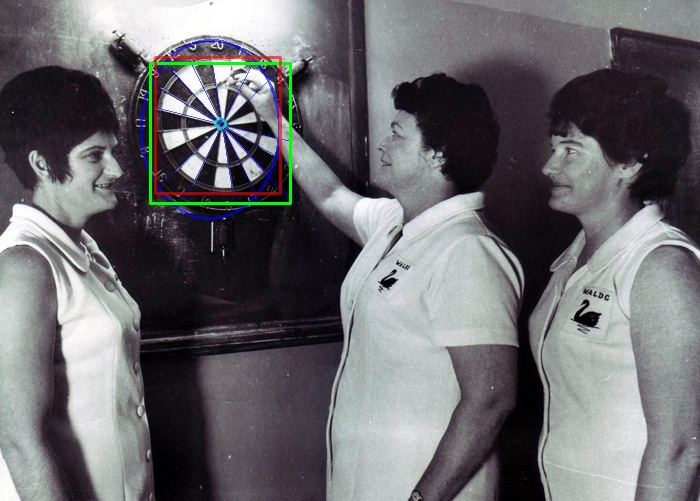
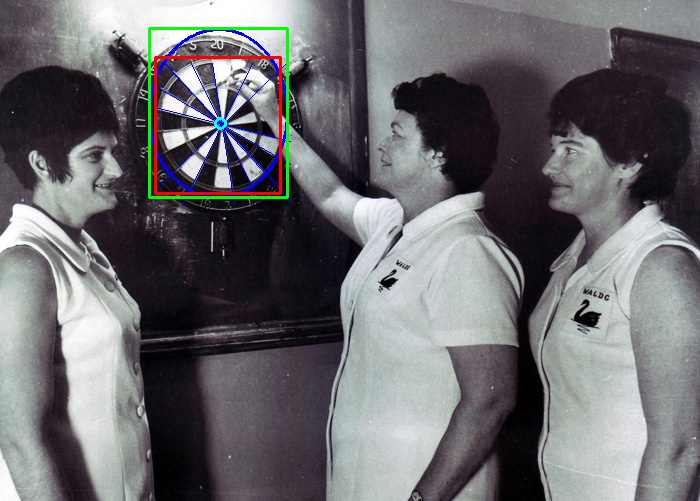
adaptive thresholding

Changed region(s): [[0.18, 0.0299, 0.42, 0.4491]]

diff --git a/framework.py b/framework.py
@@ -71,7 +71,6 @@ def detect(image, scaleFactor=1.2, minNeighbors=1.7):
         minNeighbors = 1
     img = cv.imread('images/positives/'+image)
     output = img.copy()
-    overlay = img.copy()
 
     gray = cv.cvtColor(img, cv.COLOR_BGR2GRAY)
     gray = cv.equalizeHist(gray)
@@ -82,10 +81,24 @@ def detect(image, scaleFactor=1.2, minNeighbors=1.7):
     ROIs = []
     tmp_faces = []
     final_faces = []
+    dropped = []
+    for i, f1 in enumerate(faces):
+        if  i not in dropped:
+            for j, f2 in enumerate(faces):
+                if i != j and j not in dropped:
+                    z = iou(f1, f2)
+                    z = iouThreshold(z, 0.1)
+                    if z == 1:
+                        _, _, w1, h1 = f1
+                        _, _, w2, h2 = f2
+                        if (w1*h1) <= (w2*h2):
+                            dropped.append(j)
+                        else:
+                            dropped.append(i)
 
+    tmp_faces = [face for i, face in enumerate(faces) if i not in dropped]
 
-    for (x,y,w,h) in faces:
-        overlay = cv.rectangle(overlay,(x,y),(x+w,y+h),(0,255,0),2)
+    for (x,y,w,h) in tmp_faces:
 
         roi = img[y:y+h, x:x+w]
         edges = cv.Canny(image=roi, threshold1 = 100, threshold2 = 200 )
@@ -127,11 +140,11 @@ def detect(image, scaleFactor=1.2, minNeighbors=1.7):
             x0,  y0,  a, b,  alpha = ellipses[0]
             x0 += x
             y0 += y
-            if 4*a*b < 0.4 * w * h:
-                x = int(x0-a)
-                y=int(y0-b)
-                w=int(2*a)
-                h=int(2*b) 
+            # if 4*a*b < 0.* w * h:
+            x = int(x0-a)
+            y=int(y0-b)
+            w=int(2*a)
+            h=int(2*b) 
 
             output = cv.rectangle(output,(x,y),(x+w,y+h),(0,255,0),2)
             final_faces.append((x,y,w,h))
@@ -142,7 +155,6 @@ def detect(image, scaleFactor=1.2, minNeighbors=1.7):
 
 
 #displays the image with roi
-    output = cv.addWeighted(overlay, 0.4, output, 1 - 0.4, 0)
     cv.imwrite('images/detected/'+image,output)
     return eval(groundTruths[image], final_faces)
 

diff --git a/hough.py b/hough.py
@@ -10,6 +10,10 @@ def hough_lines(image, threshold=70):
     # preprocess trig values
     cos_theta = np.cos(thetas)
     sin_theta = np.sin(thetas)
+    _, nz = np.nonzero(image)
+    if(len(nz)<3500):
+        threshold = 50
+        
 
     # Hough accumulator array of theta vs rho
     votes = np.zeros((len(rhos), len(thetas)), dtype=np.uint8)
@@ -77,6 +81,12 @@ def hough_ellipse(edges, leastVotes = 50, leastDistance = 20, min_b = 40, min_a 
     # 1 store all edge pixels in 1d array
     ys, xs = np.nonzero(edges)
     nonzeros = np.array(list(zip(ys, xs)))
+    # print(len(nonzeros))
+    if(len(nonzeros)<1500):
+        if centre != None:
+            leastVotes=20
+        else:
+            leastVotes=50
     # accumulator size of maximum minor axis length which is half of the width or height of the image
     # 2 clear accumulator
     accumulator = np.zeros(int(np.minimum(height , width)/2))
@@ -139,8 +149,8 @@ def hough_ellipse(edges, leastVotes = 50, leastDistance = 20, min_b = 40, min_a 
                                 y, x = pixel
                                 X = x - x0
                                 Y = y - y0
-                                # if np.round((((X*np.cos(alpha) + Y*np.sin(alpha))**2)/a**2) + (((X*np.sin(alpha) + Y*np.cos(alpha))**2)/b**2)) == 1:
-                                #     edges[y, x] = 0
+                                if np.round((((X*np.cos(alpha) + Y*np.sin(alpha))**2)/a**2) + (((X*np.sin(alpha) + Y*np.cos(alpha))**2)/b**2)) == 1:
+                                    edges[y, x] = 0
                             ys, xs = np.nonzero(edges)
                             nonzeros = np.array(list(zip(ys, xs)))
 
